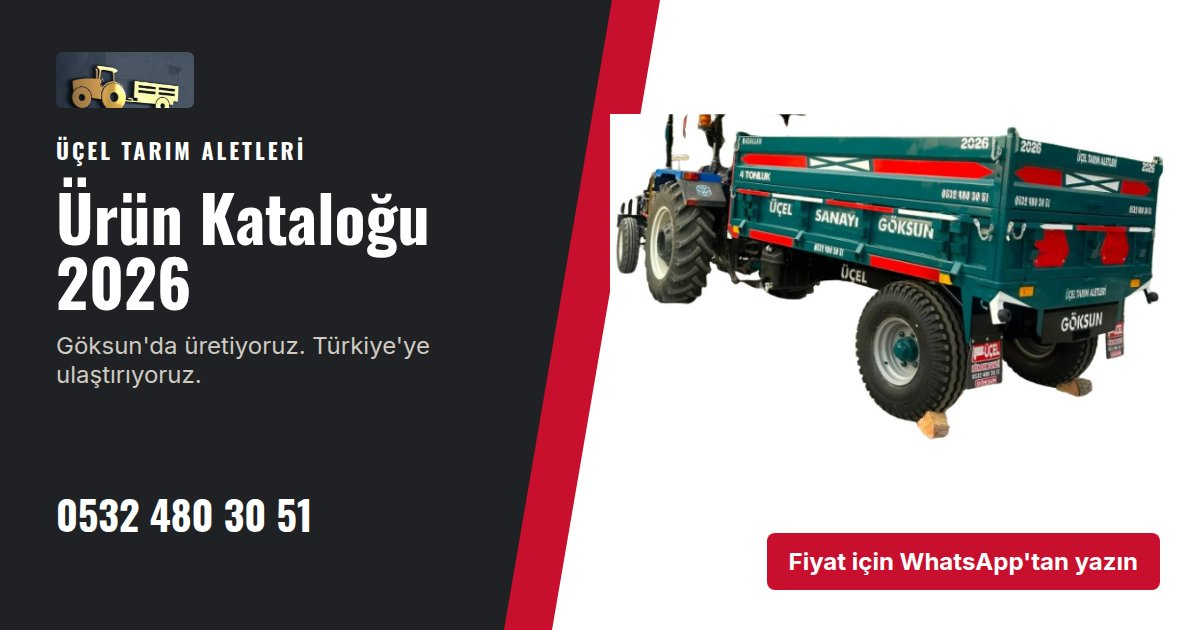
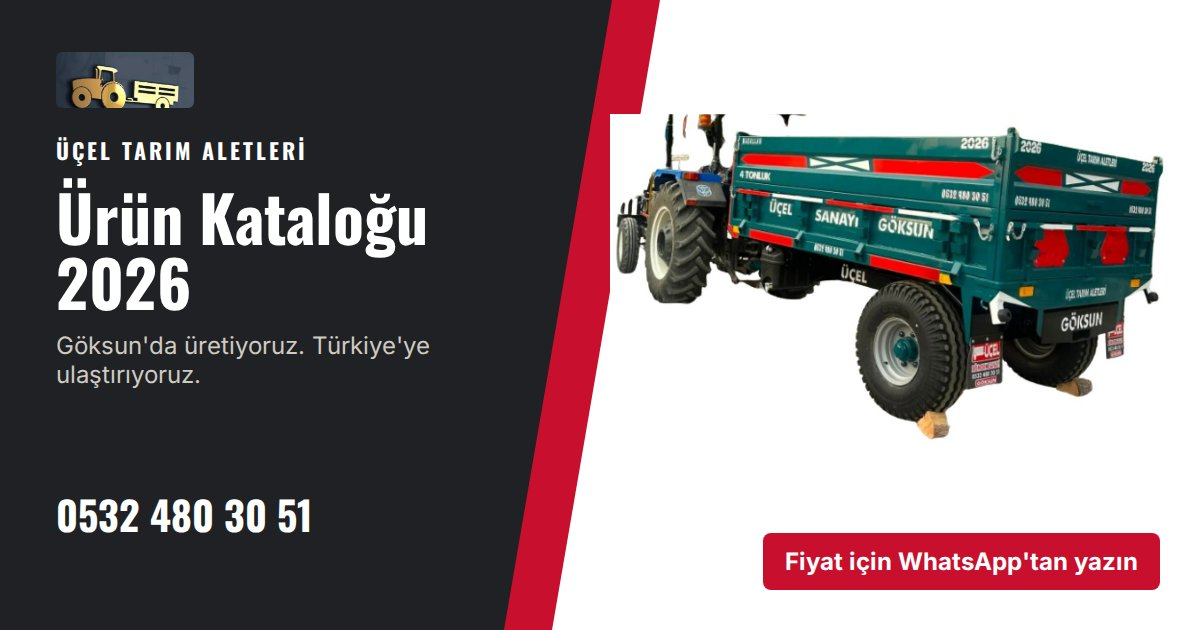
Web katalog tur 3: tekrarsız fiyat kutusu, fotoğraf düzeni, aktif ürün gezinmesi
Claude-Session: https://claude.ai/code/session_01Q4vWWTxev27hx3iQ4sLkXJ

diff --git a/katalog/index.html b/katalog/index.html
@@ -54,7 +54,8 @@ section, .urun { scroll-margin-top: 8px; }
 /* hızlı ürün gezinme: sayfanın üstüne yapışır, yatay kaydırılır */
 .urun-nav { position: sticky; top: 0; z-index: 8; display: flex; gap: 8px; overflow-x: auto; padding: 10px 12px; background: rgba(246,244,240,.97); border-bottom: 1px solid var(--c); scrollbar-width: none; }
 .urun-nav::-webkit-scrollbar { display: none; }
-.urun-nav a { flex: none; font: 700 15px/1 'Inter'; color: var(--d); text-decoration: none; background: #fff; border: 1px solid var(--c); border-radius: 99px; padding: 10px 14px; }
+.urun-nav a.aktif { background: var(--d); color: #fff; border-color: var(--d); }
+.urun-nav a { flex: none; font: 700 15px/1 'Inter'; color: var(--d); text-decoration: none; background: #fff; border: 1px solid var(--c); border-radius: 99px; padding: 13px 14px; }
 section, .urun { scroll-margin-top: 64px; }
 /* bölüm */
 .blok { padding: 26px 16px; }
@@ -69,9 +70,11 @@ section, .urun { scroll-margin-top: 64px; }
 .isler a { font-size: 15px; color: var(--k); font-weight: 700; text-decoration: none; padding: 6px 0; text-align: right; }
 /* ürün */
 .urun { background: #fff; margin: 0 0 18px; border-top: 6px solid var(--k); }
-.u-foto { aspect-ratio: 10 / 7; display: flex; align-items: center; justify-content: center; }
+.u-foto { aspect-ratio: 10 / 7; display: flex; align-items: center; justify-content: center; position: relative; overflow: hidden; }
 .u-foto.beyaz { background: #fff; padding: 10px; } .u-foto.koyu { background: var(--d); }
-.u-foto img { width: 100%; height: 100%; object-fit: contain; }
+.u-foto img { width: 100%; height: 100%; object-fit: contain; position: relative; }
+.u-foto img.arka { position: absolute; inset: 0; object-fit: cover; filter: blur(22px) brightness(.7); transform: scale(1.2); }
+.u-foto .rozet { position: absolute; left: 12px; bottom: 12px; margin: 0; z-index: 1; box-shadow: 0 2px 8px rgba(0,0,0,.25); }
 .u-ic { padding: 18px 16px 20px; }
 .u-ic h2 { font-size: 32px; margin-bottom: 8px; }
 .fayda { font: 500 21px/1.3 'Oswald'; }
@@ -95,6 +98,7 @@ summary::after { content: '+'; color: var(--k); font-size: 22px; line-height: 1;
 .avantaj li:first-child { border-top: 0; } .avantaj svg { width: 22px; height: 22px; flex: none; color: #fff; background: var(--k); border-radius: 50%; padding: 3px; }
 .destek ul { list-style: none; padding: 0; margin: 12px 0 0; display: grid; gap: 10px; }
 .destek li { display: flex; gap: 12px; align-items: flex-start; background: #fff; border-radius: 10px; padding: 12px 14px; }
+.sss-link { margin: 12px 0 0; } .sss-link a { font-weight: 700; color: var(--k); text-decoration: none; display: inline-block; padding: 6px 0; }
 .destek li svg { width: 28px; height: 28px; flex: none; color: var(--k); } .destek b { display: block; font: 500 18px/1.2 'Oswald'; } .destek span { font-size: 15px; color: var(--g); }
 button.buyut { all: unset; display: block; cursor: zoom-in; width: 100%; }
 dialog#kutu { border: 0; padding: 0; background: transparent; max-width: 96vw; max-height: 92vh; }
@@ -104,7 +108,7 @@ dialog#kutu p { color: #fff; font-size: 15px; text-align: center; margin: 10px 0
 dialog#kutu .kapat { position: fixed; top: 12px; right: 12px; width: 48px; height: 48px; border-radius: 50%; border: 0; background: #fff; color: var(--d); font-size: 30px; line-height: 1; cursor: pointer; }
 .tikli { list-style: none; padding: 0; margin: 0 0 12px; } .tikli li { display: flex; gap: 8px; padding: 4px 0; font-size: 16px; } .tikli svg { width: 20px; height: 20px; color: var(--k); flex: none; margin-top: 2px; }
 .ara { font: 700 14px 'Inter'; letter-spacing: 1px; text-transform: uppercase; color: var(--k); margin: 6px 0 4px; }
-.ek-foto { display: grid; grid-template-columns: 1fr 1fr; gap: 10px; margin-bottom: 14px; } .ek-foto img { border-radius: 8px; aspect-ratio: 4 / 3; object-fit: cover; width: 100%; } .ek-foto figcaption { font-size: 14px; color: var(--g); margin-top: 4px; }
+.ek-foto { display: grid; grid-template-columns: 1fr 1fr; gap: 10px; margin-bottom: 14px; } .ek-foto figure { margin: 0; } .ek-foto img { border-radius: 8px; aspect-ratio: 4 / 3; object-fit: cover; width: 100%; } .ek-foto figcaption { font-size: 14px; color: var(--g); margin-top: 4px; }
 .cta-yazi { font: 500 19px/1.3 'Oswald'; color: var(--k); margin: 6px 0 12px; }
 .butonlar { display: grid; grid-template-columns: 1.7fr 1fr; gap: 10px; }
 /* neden */
@@ -144,7 +148,7 @@ dialog#kutu .kapat { position: fixed; top: 12px; right: 12px; width: 48px; heigh
 <div class="kapak-foto"><img src="img/yayli-kultivator-kirmizi-2-1000.webp" alt="Göksun yaylı kültivatör" width="1000" height="700"></div>
 <div class="ust-buton"><a class="btn wa " data-msg="Merhaba, Üçel kataloğunu inceledim, bilgi almak istiyorum." href="https://wa.me/905324803051?text=Merhaba%2C%20%C3%9C%C3%A7el%20katalo%C4%9Funu%20inceledim%2C%20bilgi%20almak%20istiyorum." target="_blank" rel="noopener"><svg viewBox="0 0 24 24" aria-hidden="true"><path fill="currentColor" d="M12 2a10 10 0 0 0-8.6 15.1L2 22l5-1.3A10 10 0 1 0 12 2zm0 18.2a8.2 8.2 0 0 1-4.2-1.2l-.3-.2-3 .8.8-2.9-.2-.3A8.2 8.2 0 1 1 12 20.2zm4.5-6.1c-.2-.1-1.5-.7-1.7-.8s-.4-.1-.6.1-.6.8-.8 1-.3.2-.5.1a6.7 6.7 0 0 1-3.3-2.9c-.3-.4.3-.4.7-1.3.1-.2 0-.3 0-.4l-.8-1.8c-.2-.5-.4-.4-.6-.4h-.5a1 1 0 0 0-.7.3 3 3 0 0 0-.9 2.2 5.2 5.2 0 0 0 1.1 2.7 11.9 11.9 0 0 0 4.6 4c1.7.7 2.3.8 3.2.7a2.7 2.7 0 0 0 1.8-1.3 2.2 2.2 0 0 0 .2-1.3c-.1-.1-.3-.2-.5-.3z"/></svg><span>WhatsApp'tan yaz</span></a><a class="btn tel " href="tel:+905324803051"><svg viewBox="0 0 24 24" aria-hidden="true"><path fill="none" stroke="currentColor" stroke-width="2" stroke-linecap="round" stroke-linejoin="round" d="M5 4h4l2 5-2.5 1.5a11 11 0 0 0 5 5L15 13l5 2v4a2 2 0 0 1-2 2A16 16 0 0 1 3 6a2 2 0 0 1 2-2z"/></svg><span>Ara</span></a></div>
 
-<nav class="urun-nav" aria-label="Ürünler"><a href="#romork">Römork</a><a href="#kultivator">Kültivatör</a><a href="#pulluk">Pulluk</a><a href="#on-yukleyici">Loader Kepçe</a><a href="#gubre-serpme">Gübre Serpme</a><a href="#su-tankeri">Su Tankeri</a><a href="#diger">Diğer</a><a href="#takas">Takas</a><a href="#iletisim">İletişim</a></nav>
+<nav class="urun-nav" aria-label="Ürünler"><a href="#romork">Römork</a><a href="#kultivator">Kültivatör</a><a href="#pulluk">Pulluk</a><a href="#on-yukleyici">Loader Kepçe</a><a href="#gubre-serpme">Gübre Serpme</a><a href="#su-tankeri">Su Tankeri</a><a href="#diger">Diğer</a><a href="#takas">Takas</a><a href="#sss">Sorular</a><a href="#iletisim">İletişim</a></nav>
 
 <section class="blok" id="sec">
   <p class="etk">Ekipman seçimi</p>
@@ -157,26 +161,27 @@ dialog#kutu .kapat { position: fixed; top: 12px; right: 12px; width: 48px; heigh
   <p class="etk">Teslimat ve destek</p>
   <h2>Göksun'dan Türkiye'ye</h2>
   <ul>
+    <li><svg viewBox="0 0 24 24" aria-hidden="true"><path fill="currentColor" d="M12 2a10 10 0 0 0-8.6 15.1L2 22l5-1.3A10 10 0 1 0 12 2zm0 18.2a8.2 8.2 0 0 1-4.2-1.2l-.3-.2-3 .8.8-2.9-.2-.3A8.2 8.2 0 1 1 12 20.2zm4.5-6.1c-.2-.1-1.5-.7-1.7-.8s-.4-.1-.6.1-.6.8-.8 1-.3.2-.5.1a6.7 6.7 0 0 1-3.3-2.9c-.3-.4.3-.4.7-1.3.1-.2 0-.3 0-.4l-.8-1.8c-.2-.5-.4-.4-.6-.4h-.5a1 1 0 0 0-.7.3 3 3 0 0 0-.9 2.2 5.2 5.2 0 0 0 1.1 2.7 11.9 11.9 0 0 0 4.6 4c1.7.7 2.3.8 3.2.7a2.7 2.7 0 0 0 1.8-1.3 2.2 2.2 0 0 0 .2-1.3c-.1-.1-.3-.2-.5-.3z"/></svg><div><b>Size uygun modeli birlikte seçelim</b><span>WhatsApp'tan traktörünüzü (marka / model), beygir gücünü ve yapacağınız işi yazın. Ölçü, kapasite ve fiyat bilgisini size özel iletelim.</span></div></li>
     <li><svg viewBox="0 0 24 24" aria-hidden="true"><path fill="none" stroke="currentColor" stroke-width="2" stroke-linejoin="round" d="M2 7h11v9H2zM13 10h5l3 3v3h-8z"/><circle cx="6" cy="17.5" r="1.8" fill="none" stroke="currentColor" stroke-width="2"/><circle cx="17" cy="17.5" r="1.8" fill="none" stroke="currentColor" stroke-width="2"/></svg><div><b>Türkiye geneline gönderim</b><span>Şehrinizi yazın, nakliye seçeneğini birlikte belirleyelim.</span></div></li>
     <li><svg viewBox="0 0 24 24" aria-hidden="true"><path fill="none" stroke="currentColor" stroke-width="2" d="M12 21c-4-4-7-7.5-7-11a7 7 0 0 1 14 0c0 3.5-3 7-7 11z"/><circle cx="12" cy="10" r="2.5" fill="none" stroke="currentColor" stroke-width="2"/></svg><div><b>Göksun ve çevresine yerinde</b><span>Atölyemize gelip ürünleri yerinde inceleyebilirsiniz.</span></div></li>
     <li><svg viewBox="0 0 24 24" aria-hidden="true"><path fill="none" stroke="currentColor" stroke-width="2" stroke-linejoin="round" d="M14.7 6.3a4 4 0 0 0-5.4 5.4L3 18l3 3 6.3-6.3a4 4 0 0 0 5.4-5.4l-2.6 2.6-2.4-.6-.6-2.4z"/></svg><div><b>Yedek parça</b><span>Ürettiğimiz ve sattığımız ürünler için.</span></div></li>
     <li><svg viewBox="0 0 24 24" aria-hidden="true"><path fill="none" stroke="currentColor" stroke-width="2" stroke-linecap="round" stroke-linejoin="round" d="M4 8h13l-3-3M20 16H7l3 3"/></svg><div><b>İkinci el ve takas</b><span>Eski makinenizi değerlendiriyoruz.</span></div></li>
   </ul>
+  <p class="sss-link"><a href="#sss">Nakliye, garanti ve bakım soruları →</a></p>
 </section>
 
 <article class="urun" id="romork">
-    <div class="u-foto beyaz"><img src="img/tarim-romorku-yesil-traktor-1000.webp" alt="Tarım Römorku" loading="lazy" width="1000" height="700"></div>
+    <div class="u-foto beyaz"><img src="img/tarim-romorku-yesil-traktor-1000.webp" alt="Tarım Römorku" loading="lazy" width="1000" height="700"><p class="rozet">Kendi imalatımız · Göksun</p></div>
     <div class="u-ic">
       <p class="etk">Taşıma</p>
-      <p class="rozet">Kendi imalatımız · Göksun atölyesi</p>
       <h2>Tarım Römorku</h2>
       <p class="fayda">Ürününüzü, yeminizi, odununuzu tek römorkla taşıyın.</p>
       <p>Tarladan eve, depodan tarlaya yük taşımanın temel ekipmanı. Kaynağından boyasına kadar Göksun'daki atölyemizde üretiyoruz.</p>
       <ul class="cips"><li>Tarla ürünü</li><li>Gübre ve yem</li><li>Odun ve malzeme</li><li>Hayvancılık</li></ul>
       <p class="kimler"><b>Kimler için?</b> Ürün taşıyan, hayvancılık yapan, gübre ve yem nakli olan ya da genel taşıma ihtiyacı olan çiftçiler için.</p>
-      <div class="fiyat bos"><b>Fiyat ve uygun model</b><span>Bize üç şey yazın: Traktörünüz (marka / model) · Beygir gücü (HP) · Yapacağınız iş</span></div>
       
-      <div class="avantaj"><p class="ara">Üçel imalat avantajları</p><ul><li><svg viewBox="0 0 24 24" aria-hidden="true"><path fill="none" stroke="currentColor" stroke-width="2.4" stroke-linecap="round" stroke-linejoin="round" d="M5 12.5l4.5 4.5L19 7.5"/></svg>Kaynağından boyasına kadar atölyemizde üretiyoruz.</li><li><svg viewBox="0 0 24 24" aria-hidden="true"><path fill="none" stroke="currentColor" stroke-width="2.4" stroke-linecap="round" stroke-linejoin="round" d="M5 12.5l4.5 4.5L19 7.5"/></svg>Kasa rengi ve yazısı isteğinize göre: isim, firma adı ya da “Maşallah”.</li><li><svg viewBox="0 0 24 24" aria-hidden="true"><path fill="none" stroke="currentColor" stroke-width="2.4" stroke-linecap="round" stroke-linejoin="round" d="M5 12.5l4.5 4.5L19 7.5"/></svg>Standart dışı ölçüde özel imalat yapabiliyoruz.</li></ul></div>
+      
+      <div class="avantaj"><p class="ara">Üçel imalat avantajları</p><ul><li><svg viewBox="0 0 24 24" aria-hidden="true"><path fill="none" stroke="currentColor" stroke-width="2.4" stroke-linecap="round" stroke-linejoin="round" d="M5 12.5l4.5 4.5L19 7.5"/></svg>Kasa rengi ve yazısı isteğinize göre: isim, firma adı ya da “Maşallah”.</li><li><svg viewBox="0 0 24 24" aria-hidden="true"><path fill="none" stroke="currentColor" stroke-width="2.4" stroke-linecap="round" stroke-linejoin="round" d="M5 12.5l4.5 4.5L19 7.5"/></svg>Standart dışı ölçüde özel imalat yapabiliyoruz.</li></ul></div>
       <div class="ek-foto"><figure><button type="button" class="buyut" data-buyuk="img/tarim-romorku-mavi-1400.webp" aria-label="Büyüt: Mavi kasa"><img src="img/tarim-romorku-mavi-600.webp" alt="Mavi kasa" loading="lazy"></button><figcaption>Mavi kasa</figcaption></figure><figure><button type="button" class="buyut" data-buyuk="img/tarim-romorku-yesil-teslimat-1400.webp" aria-label="Büyüt: Teslimatta"><img src="img/tarim-romorku-yesil-teslimat-600.webp" alt="Teslimatta" loading="lazy"></button><figcaption>Teslimatta</figcaption></figure></div>
       <p class="cta-yazi">Ne taşıyacağınızı yazın, uygun römorku birlikte belirleyelim.</p>
       <div class="butonlar"><a class="btn wa " data-msg="Merhaba, Üçel kataloğunda gördüğüm tarım römorku hakkında bilgi almak istiyorum.
@@ -186,18 +191,17 @@ Traktörüm (marka / model):" href="https://wa.me/905324803051?text=Merhaba%2C%2
     </div>
   </article>
 <article class="urun" id="kultivator">
-    <div class="u-foto beyaz"><img src="img/yayli-kultivator-kirmizi-2-1000.webp" alt="Kültivatör / Tapan" loading="lazy" width="1000" height="700"></div>
+    <div class="u-foto beyaz"><img src="img/yayli-kultivator-kirmizi-2-1000.webp" alt="Kültivatör / Tapan" loading="lazy" width="1000" height="700"><p class="rozet">Kendi imalatımız · Göksun</p></div>
     <div class="u-ic">
       <p class="etk">Toprak işleme</p>
-      <p class="rozet">Kendi imalatımız · Göksun atölyesi</p>
       <h2>Kültivatör / Tapan</h2>
       <p class="fayda">Pulluktan sonra toprağı inceltir, tohum yatağını hazırlar.</p>
       <p>Pullukla işlenmiş toprağın yüzeyini inceltip tohum yatağını hazırlayan ekipman. Göksun Sanayi Sitesi'ndeki atölyemizde üretiyoruz.</p>
       <ul class="cips"><li>Toprak yüzey işleme</li><li>Tohum yatağı hazırlığı</li><li>Yabani ot mücadelesi</li></ul>
       <p class="kimler"><b>Kimler için?</b> Ekim öncesi toprak yüzeyini hazırlamak ve yabani otla mücadele etmek isteyen çiftçiler için.</p>
-      <div class="fiyat bos"><b>Fiyat ve uygun model</b><span>Bize üç şey yazın: Traktörünüz (marka / model) · Beygir gücü (HP) · Yapacağınız iş</span></div>
       
-      <div class="avantaj"><p class="ara">Üçel imalat avantajları</p><ul><li><svg viewBox="0 0 24 24" aria-hidden="true"><path fill="none" stroke="currentColor" stroke-width="2.4" stroke-linecap="round" stroke-linejoin="round" d="M5 12.5l4.5 4.5L19 7.5"/></svg>Göksun'daki atölyemizde üretiyoruz.</li><li><svg viewBox="0 0 24 24" aria-hidden="true"><path fill="none" stroke="currentColor" stroke-width="2.4" stroke-linecap="round" stroke-linejoin="round" d="M5 12.5l4.5 4.5L19 7.5"/></svg>Yaylı ayak sistemi</li><li><svg viewBox="0 0 24 24" aria-hidden="true"><path fill="none" stroke="currentColor" stroke-width="2.4" stroke-linecap="round" stroke-linejoin="round" d="M5 12.5l4.5 4.5L19 7.5"/></svg>Farklı ayak sayısı ve ebat seçenekleri</li><li><svg viewBox="0 0 24 24" aria-hidden="true"><path fill="none" stroke="currentColor" stroke-width="2.4" stroke-linecap="round" stroke-linejoin="round" d="M5 12.5l4.5 4.5L19 7.5"/></svg>Kırmızı ve mavi renk</li></ul></div>
+      
+      <div class="avantaj"><p class="ara">Üçel imalat avantajları</p><ul><li><svg viewBox="0 0 24 24" aria-hidden="true"><path fill="none" stroke="currentColor" stroke-width="2.4" stroke-linecap="round" stroke-linejoin="round" d="M5 12.5l4.5 4.5L19 7.5"/></svg>Yaylı ayak sistemi</li><li><svg viewBox="0 0 24 24" aria-hidden="true"><path fill="none" stroke="currentColor" stroke-width="2.4" stroke-linecap="round" stroke-linejoin="round" d="M5 12.5l4.5 4.5L19 7.5"/></svg>Farklı ayak sayısı ve ebat seçenekleri</li><li><svg viewBox="0 0 24 24" aria-hidden="true"><path fill="none" stroke="currentColor" stroke-width="2.4" stroke-linecap="round" stroke-linejoin="round" d="M5 12.5l4.5 4.5L19 7.5"/></svg>Kırmızı ve mavi renk</li></ul></div>
       <div class="ek-foto"><figure><button type="button" class="buyut" data-buyuk="img/yayli-kultivator-mavi-2-1400.webp" aria-label="Büyüt: Mavi renkte"><img src="img/yayli-kultivator-mavi-2-600.webp" alt="Mavi renkte" loading="lazy"></button><figcaption>Mavi renkte</figcaption></figure><figure><button type="button" class="buyut" data-buyuk="img/kultivator-mavi-saha-1400.webp" aria-label="Büyüt: Mavi Göksun kültivatör"><img src="img/kultivator-mavi-saha-600.webp" alt="Mavi Göksun kültivatör" loading="lazy"></button><figcaption>Mavi Göksun kültivatör</figcaption></figure></div>
       <p class="cta-yazi">Traktörünüzün gücünü yazın, uygun modeli birlikte seçelim.</p>
       <div class="butonlar"><a class="btn wa " data-msg="Merhaba, Üçel kataloğunda gördüğüm kültivatör hakkında bilgi almak istiyorum.
@@ -206,16 +210,15 @@ Traktörüm ve HP:
     </div>
   </article>
 <article class="urun" id="pulluk">
-    <div class="u-foto koyu"><img src="img/kulakli-pulluk-1000.webp" alt="Pulluk" loading="lazy" width="1000" height="700"></div>
+    <div class="u-foto koyu"><img class="arka" src="img/kulakli-pulluk-1000.webp" alt="" aria-hidden="true" loading="lazy"><img src="img/kulakli-pulluk-1000.webp" alt="Pulluk" loading="lazy" width="1000" height="700"></div>
     <div class="u-ic">
       <p class="etk">Toprak işleme</p>
-      
       <h2>Pulluk</h2>
       <p class="fayda">Ekim öncesi tarlanızı derin işleyin.</p>
       <p>Tarlanın ekim öncesi derin işlenmesinde kullanılan temel ekipman. Toprağınıza ve traktörünüzün gücüne uygun pulluk, traktörünüzü gereksiz yormaz.</p>
       <ul class="cips"><li>Derin toprak işleme</li><li>Ekim öncesi hazırlık</li><li>Anız bozma</li></ul>
       <p class="kimler"><b>Kimler için?</b> Tarlasını ekim öncesi derin işlemek isteyen, anız bozacak çiftçiler için.</p>
-      <div class="fiyat bos"><b>Fiyat ve uygun model</b><span>Bize üç şey yazın: Traktörünüz (marka / model) · Beygir gücü (HP) · Yapacağınız iş</span></div>
+      
       
       <div class="avantaj"><p class="ara">Neden Üçel?</p><ul><li><svg viewBox="0 0 24 24" aria-hidden="true"><path fill="none" stroke="currentColor" stroke-width="2.4" stroke-linecap="round" stroke-linejoin="round" d="M5 12.5l4.5 4.5L19 7.5"/></svg>Traktörünüzün gücüne uygun pulluğu birlikte seçiyoruz.</li></ul></div>
       
@@ -226,18 +229,17 @@ Toprak yapısı / istediğim model:" href="https://wa.me/905324803051?text=Merha
     </div>
   </article>
 <article class="urun" id="on-yukleyici">
-    <div class="u-foto beyaz"><img src="img/on-yukleyici-traktor-1000.webp" alt="Loader Kepçe" loading="lazy" width="1000" height="700"></div>
+    <div class="u-foto beyaz"><img src="img/on-yukleyici-traktor-1000.webp" alt="Loader Kepçe" loading="lazy" width="1000" height="700"><p class="rozet">Kendi imalatımız · Göksun</p></div>
     <div class="u-ic">
       <p class="etk">Yükleme</p>
-      <p class="rozet">Kendi imalatımız · Göksun atölyesi</p>
       <h2>Loader Kepçe</h2>
       <p class="fayda">Yem, gübre ve malzemeyi traktörünüzle kaldırın, taşıyın.</p>
       <p>Traktörünüze monte edilen, yem, gübre ve malzeme gibi yükleri kaldırıp taşımanızı sağlayan sistem. Kendi atölyemizde imal ediyoruz.</p>
       <ul class="cips"><li>Yükleme-boşaltma</li><li>Ahır ve çiftlik işleri</li><li>Malzeme taşıma</li></ul>
       <p class="kimler"><b>Kimler için?</b> Ahır ve çiftlik işleri yapan, düzenli yükleme-boşaltma ihtiyacı olan çiftçiler için.</p>
-      <div class="fiyat bos"><b>Fiyat ve uygun model</b><span>Bize üç şey yazın: Traktörünüz (marka / model) · Beygir gücü (HP) · Yapacağınız iş</span></div>
       
-      <div class="avantaj"><p class="ara">Üçel imalat avantajları</p><ul><li><svg viewBox="0 0 24 24" aria-hidden="true"><path fill="none" stroke="currentColor" stroke-width="2.4" stroke-linecap="round" stroke-linejoin="round" d="M5 12.5l4.5 4.5L19 7.5"/></svg>Kendi atölyemizde imal ediyoruz.</li><li><svg viewBox="0 0 24 24" aria-hidden="true"><path fill="none" stroke="currentColor" stroke-width="2.4" stroke-linecap="round" stroke-linejoin="round" d="M5 12.5l4.5 4.5L19 7.5"/></svg>Montaj uygunluğunu traktör modelinize göre birlikte değerlendiriyoruz.</li><li><svg viewBox="0 0 24 24" aria-hidden="true"><path fill="none" stroke="currentColor" stroke-width="2.4" stroke-linecap="round" stroke-linejoin="round" d="M5 12.5l4.5 4.5L19 7.5"/></svg>Kırmızı ve mavi renk örnekleri</li></ul></div>
+      
+      <div class="avantaj"><p class="ara">Üçel imalat avantajları</p><ul><li><svg viewBox="0 0 24 24" aria-hidden="true"><path fill="none" stroke="currentColor" stroke-width="2.4" stroke-linecap="round" stroke-linejoin="round" d="M5 12.5l4.5 4.5L19 7.5"/></svg>Montaj uygunluğunu traktör modelinize göre birlikte değerlendiriyoruz.</li><li><svg viewBox="0 0 24 24" aria-hidden="true"><path fill="none" stroke="currentColor" stroke-width="2.4" stroke-linecap="round" stroke-linejoin="round" d="M5 12.5l4.5 4.5L19 7.5"/></svg>Kırmızı ve mavi renk örnekleri</li></ul></div>
       <div class="ek-foto"><figure><button type="button" class="buyut" data-buyuk="img/on-yukleyici-atolye-1400.webp" aria-label="Büyüt: Atölyemizin önünde"><img src="img/on-yukleyici-atolye-600.webp" alt="Atölyemizin önünde" loading="lazy"></button><figcaption>Atölyemizin önünde</figcaption></figure><figure><button type="button" class="buyut" data-buyuk="img/on-yukleyici-kubota-1400.webp" aria-label="Büyüt: Kubota traktöre montaj"><img src="img/on-yukleyici-kubota-600.webp" alt="Kubota traktöre montaj" loading="lazy"></button><figcaption>Kubota traktöre montaj</figcaption></figure></div>
       <p class="cta-yazi">Traktörünüzün marka ve modelini yazın, montaja uygunluğuna bakalım.</p>
       <div class="butonlar"><a class="btn wa " data-msg="Merhaba, Üçel kataloğunda gördüğüm loader kepçe hakkında bilgi almak istiyorum.
@@ -246,16 +248,15 @@ Ne için kullanacağım:" href="https://wa.me/905324803051?text=Merhaba%2C%20%C3
     </div>
   </article>
 <article class="urun" id="gubre-serpme">
-    <div class="u-foto koyu"><img src="img/romork-ve-gubre-serpme-1000.webp" alt="Gübre Serpme Makinesi" loading="lazy" width="1000" height="700"></div>
+    <div class="u-foto koyu"><img class="arka" src="img/romork-ve-gubre-serpme-1000.webp" alt="" aria-hidden="true" loading="lazy"><img src="img/romork-ve-gubre-serpme-1000.webp" alt="Gübre Serpme Makinesi" loading="lazy" width="1000" height="700"></div>
     <div class="u-ic">
       <p class="etk">Gübreleme</p>
-      
       <h2>Gübre Serpme Makinesi</h2>
       <p class="fayda">Gübreyi tarlanıza dengeli dağıtın.</p>
       <p>Kimyasal ya da organik gübreyi tarlanıza dengeli şekilde dağıtmanızı sağlayan, traktör arkasına monte edilen makine.</p>
       <ul class="cips"><li>Kimyasal gübreleme</li><li>Organik gübreleme</li></ul>
       <p class="kimler"><b>Kimler için?</b> Düzenli gübreleme yapan çiftçiler için.</p>
-      <div class="fiyat bos"><b>Fiyat ve uygun model</b><span>Bize üç şey yazın: Traktörünüz (marka / model) · Beygir gücü (HP) · Yapacağınız iş</span></div>
+      
       
       
       
@@ -270,13 +271,12 @@ Traktörüm ve HP:" href="https://wa.me/905324803051?text=Merhaba%2C%20%C3%9C%C3
     <div class="u-foto beyaz"><img src="img/su-tankeri-2-1000.webp" alt="Su Tankeri" loading="lazy" width="1000" height="700"></div>
     <div class="u-ic">
       <p class="etk">Taşıma</p>
-      
       <h2>Su Tankeri</h2>
       <p class="fayda">Tarlaya da, hayvana da suyu traktörünüzle taşıyın.</p>
       <p>Tarla sulaması ve genel su taşımacılığı için traktörle çekilen tanker.</p>
       <ul class="cips"><li>Tarla sulama</li><li>Hayvan suyu</li><li>Su taşımacılığı</li></ul>
       <p class="kimler"><b>Kimler için?</b> Sulama ihtiyacı olan ya da düzenli su taşıyan çiftçiler için.</p>
-      <div class="fiyat bos"><b>Fiyat ve uygun model</b><span>Bize üç şey yazın: Traktörünüz (marka / model) · Beygir gücü (HP) · Yapacağınız iş</span></div>
+      
       
       
       
@@ -300,8 +300,8 @@ Traktörüm:" href="https://wa.me/905324803051?text=Merhaba%2C%20bir%20ekipman%2
 
 <section class="blok" id="neden">
   <p class="etk">Neden Üçel?</p>
-  <h2>Bizi farklı kılan beş şey</h2>
-  <div class="neden"><div><h3>Kendi imalatımız</h3><p>Römork, kültivatör ve loader kepçeyi Göksun Sanayi Sitesi'ndeki atölyemizde kendimiz üretiyoruz.</p><p class="kanit">Ürünlerimizin üzerinde ÜÇEL · GÖKSUN yazar.</p></div><div><h3>İhtiyaca göre üretim</h3><p>Kendi imal ettiğimiz ekipmanlarda standart ölçülerin dışında, ihtiyacınıza göre özel imalat yapabiliyoruz.</p><p class="kanit">Römork kasasının rengini ve yazısını siz seçersiniz.</p></div><div><h3>Sahadan gelen tecrübe</h3><p>Tarım makinelerinin yalnızca satışını değil, sahada nasıl kullanıldığını da biliyoruz.</p></div><div><h3>Yedek parça ve destek</h3><p>Tesliminden sonra da yanınızdayız. Kendi ürettiğimiz ve sattığımız ürünler için yedek parça sağlıyoruz.</p></div><div><h3>Türkiye'ye gönderim</h3><p>Göksun ve çevresine yerinde, Türkiye geneline de gönderimle hizmet veriyoruz.</p><p class="kanit">Nakliye seçeneğini şehrinize göre birlikte belirliyoruz.</p></div></div>
+  <h2>Bizi farklı kılan üç şey</h2>
+  <div class="neden"><div><h3>Kendi imalatımız</h3><p>Römork, kültivatör ve loader kepçeyi Göksun Sanayi Sitesi'ndeki atölyemizde kendimiz üretiyoruz.</p><p class="kanit">Ürünlerimizin üzerinde ÜÇEL · GÖKSUN yazar.</p></div><div><h3>İhtiyaca göre üretim</h3><p>Kendi imal ettiğimiz ekipmanlarda standart ölçülerin dışında, ihtiyacınıza göre özel imalat yapabiliyoruz.</p><p class="kanit">Römork kasasının rengini ve yazısını siz seçersiniz.</p></div><div><h3>Sahadan gelen tecrübe</h3><p>Tarım makinelerinin yalnızca satışını değil, sahada nasıl kullanıldığını da biliyoruz.</p></div></div>
 </section>
 
 <section class="blok" id="takas">
@@ -352,6 +352,23 @@ Durumu:" href="https://wa.me/905324803051?text=Merhaba%2C%20takas%20%2F%20ikinci
   var ust = document.querySelector('.ust-buton'), cubuk = document.querySelector('.cubuk');
   if (!ust || !('IntersectionObserver' in window)) { cubuk.classList.remove('gizli'); return; }
   new IntersectionObserver(function (e) { cubuk.classList.toggle('gizli', e[0].isIntersecting); }).observe(ust);
+})();
+// Gezinme: ekrandaki ürün / bölümün düğmesi koyulaşır ve çubukta görünür kalır
+(function () {
+  var nav = document.querySelector('.urun-nav');
+  if (!nav || !('IntersectionObserver' in window)) return;
+  var dugme = {};
+  nav.querySelectorAll('a').forEach(function (a) { dugme[a.getAttribute('href').slice(1)] = a; });
+  var gozcu = new IntersectionObserver(function (e) {
+    e.forEach(function (x) {
+      if (!x.isIntersecting) return;
+      nav.querySelectorAll('a.aktif').forEach(function (a) { a.classList.remove('aktif'); });
+      var a = dugme[x.target.id];
+      a.classList.add('aktif');
+      nav.scrollTo({ left: a.offsetLeft - 12, behavior: 'smooth' });
+    });
+  }, { rootMargin: '-30% 0px -65% 0px' });
+  Object.keys(dugme).forEach(function (id) { var el = document.getElementById(id); if (el) gozcu.observe(el); });
 })();
 // Fotoğraf büyütme
 (function () {
